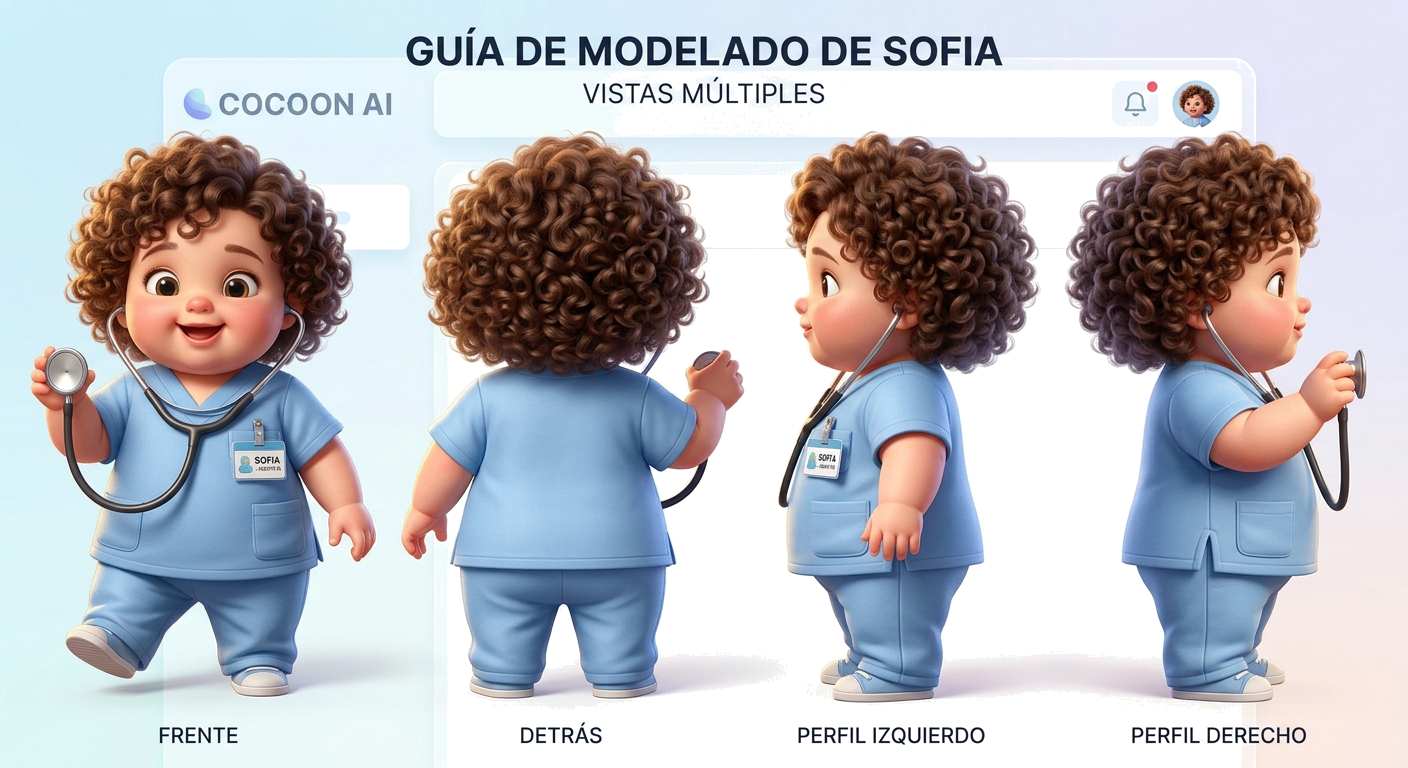
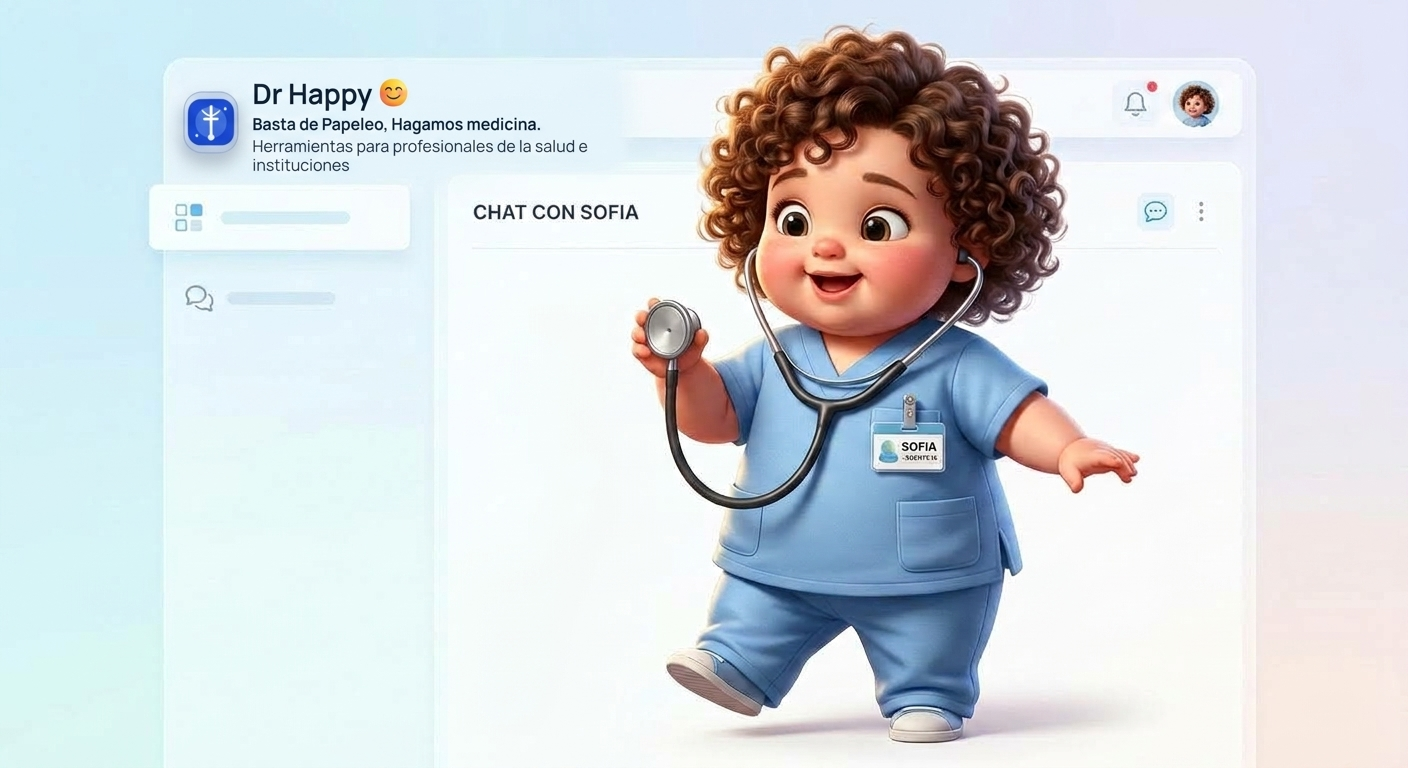
Use complete Dr Happy Sofia artwork

diff --git a/dr happy/src/App.css b/dr happy/src/App.css
@@ -138,14 +138,10 @@ body.theme-night {
 .flyer-mock-calendar b, .flyer-mock-tools b, .flyer-mock-patient-list b, .flyer-mock-ledger b { color: var(--flyer-accent, #1d4ed8); }
 .flyer-mock-patient-list em { margin-left: 5px; padding: 2px 6px; border-radius: 99px; background: #e7efff; color: #1d4ed8; font-style: normal; }
 .flyer-mock-ledger strong { color: #c2410c; font-size: .75rem; }
-.flyer-sofia-visual { display: grid; grid-template-columns: minmax(0, 1fr) 150px; align-items: center; gap: 8px; min-height: 218px; overflow: hidden; border-radius: 13px; background: linear-gradient(145deg, #e6faf7, #f7fffd 58%, #dbeafe); }
-.flyer-sofia-copy { display: grid; gap: 10px; padding: 18px 4px 18px 18px; color: #164e63; font-size: .76rem; line-height: 1.4; }
-.flyer-sofia-copy strong { color: #0f766e; font-size: 1.05rem; }
-.flyer-sofia-copy span { color: #527386; }
-.flyer-sofia-copy b { color: #0f766e; font-size: .68rem; }
-.flyer-sofia-image { position: relative; align-self: stretch; min-height: 218px; overflow: hidden; }
-.flyer-sofia-image img { position: absolute; top: -43px; left: -7px; width: 620px; max-width: none; height: auto; }
-.flyer-sofia-image::after { content: ''; position: absolute; top: 0; right: 0; left: 0; height: 32px; background: #e6faf7; pointer-events: none; }
+.flyer-sofia-visual { position: relative; min-height: 218px; overflow: hidden; border-radius: 13px; background: #e6faf7; }
+.flyer-sofia-copy { display: none; }
+.flyer-sofia-image { position: absolute; inset: 0; display: grid; place-items: center; overflow: hidden; }
+.flyer-sofia-image img { display: block; width: 100%; height: 100%; max-width: none; object-fit: contain; object-position: center; }
 .flyer-slide-dots { position: absolute; bottom: -4px; left: 50%; display: flex; gap: 6px; transform: translateX(-50%); }
 .flyer-slide-dots span { width: 7px; height: 7px; border-radius: 50%; background: #b9cde7; }
 .flyer-slide-dots span.active { width: 20px; border-radius: 5px; background: var(--flyer-accent, #1d4ed8); }
